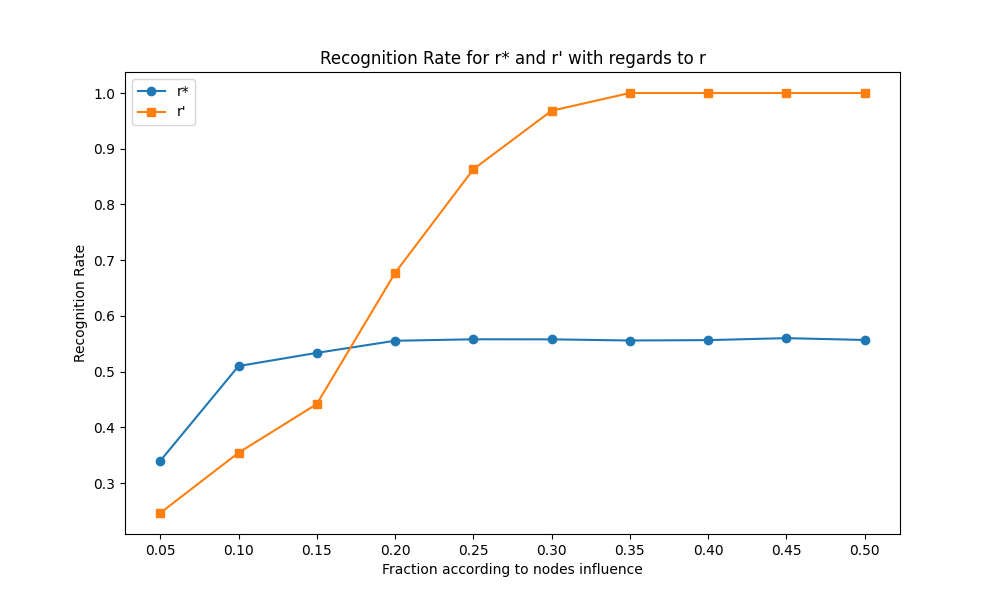
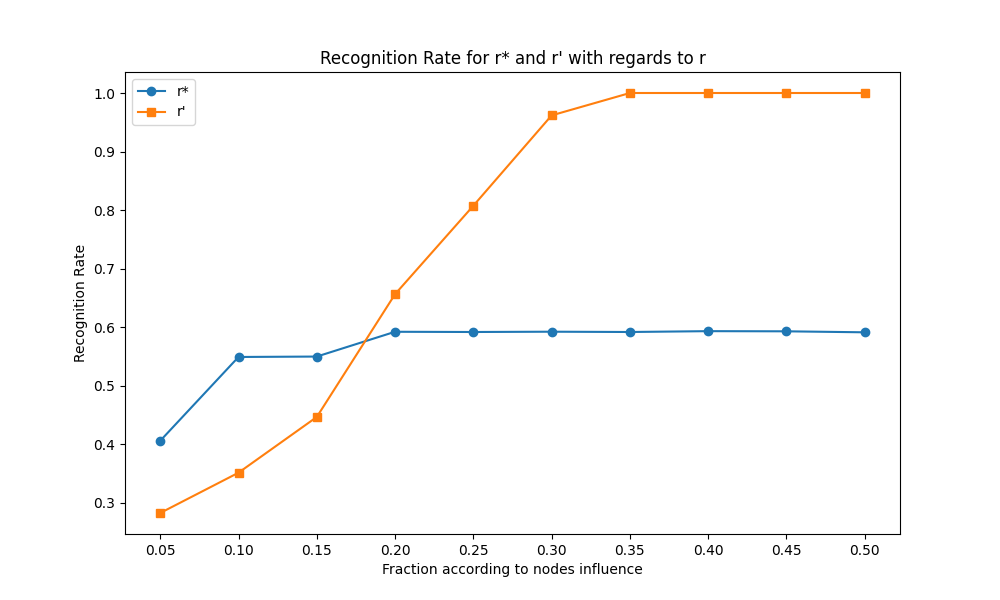
Fixed inconsistency in theta usage

diff --git a/main.py b/main.py
@@ -4,8 +4,7 @@ import random
 
 file_name = "data/infectious_hypergraph.dat"
 beta = 0.6  # probability to infect
-# TODO: theta is integer number representing the number of nodes that must be infected to start infection of hyperlink
-theta = 0.3  # minimum percentage of infectious nodes to start infection
+theta = 1  # minimum number of infectious nodes to start infection
 
 
 def compute_importance_through_time(alpha=0.2):
@@ -107,9 +106,8 @@ def infect(hyperlinks: [[int]], infected: set):
 
     for hyperlink in hyperlinks:
         infected_in_hyperlink = len(set(hyperlink).intersection(infected))
-        infected_percentage = infected_in_hyperlink / (len(hyperlink))
 
-        if infected_percentage >= theta:
+        if infected_in_hyperlink >= theta:
             for node in hyperlink:
                 if node not in infected:
                     if will_infect():
